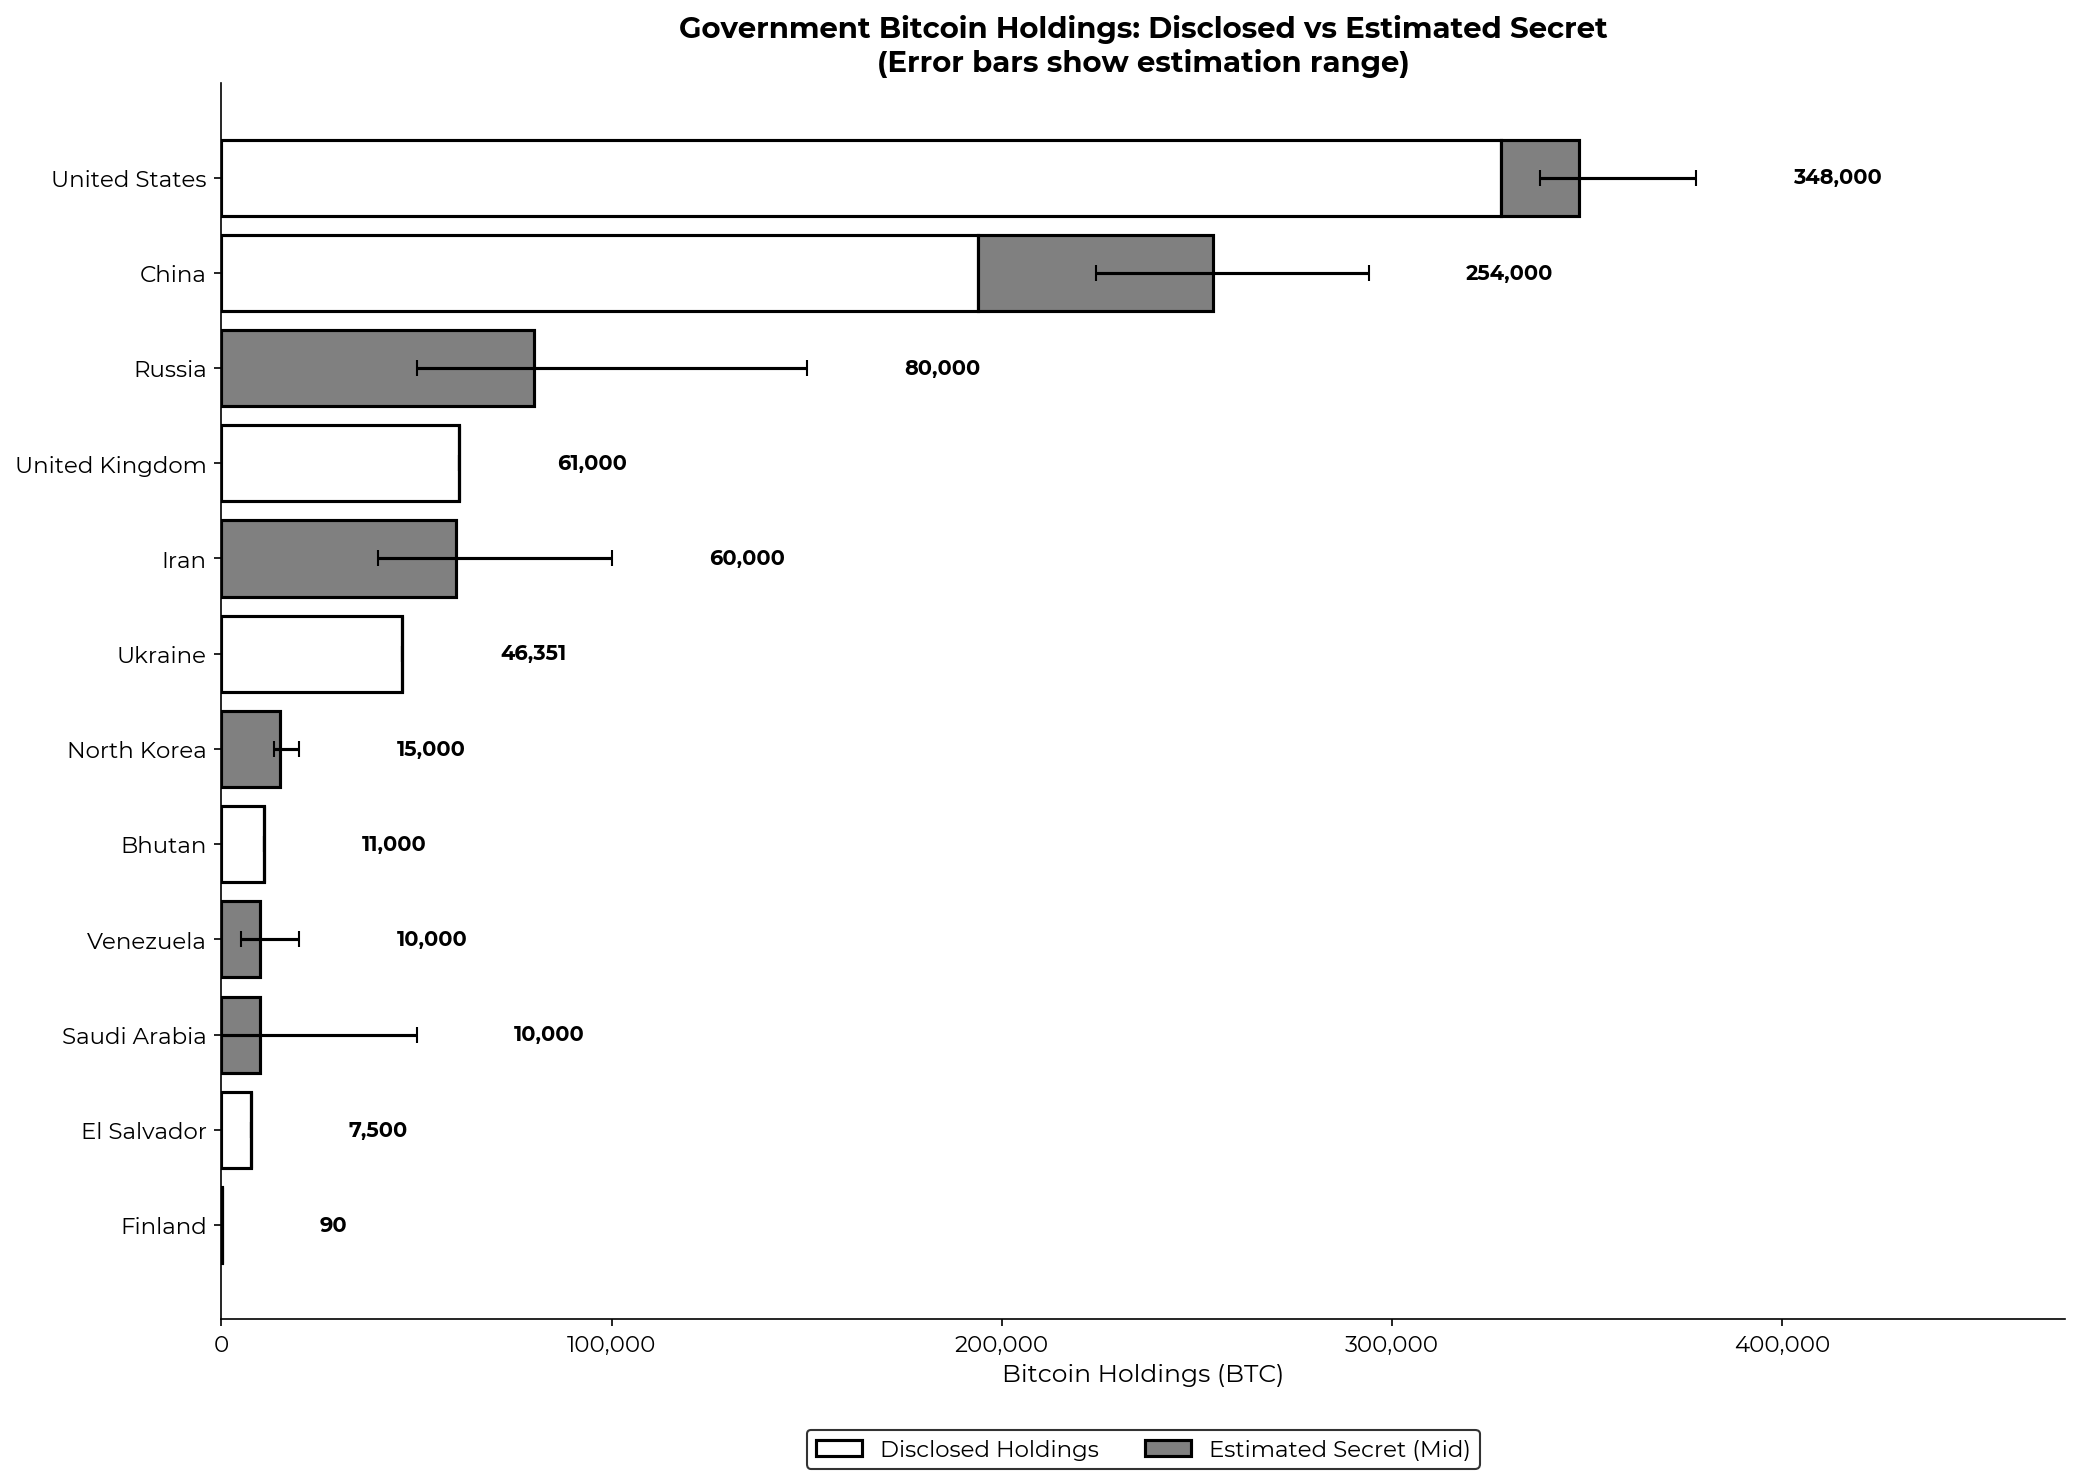
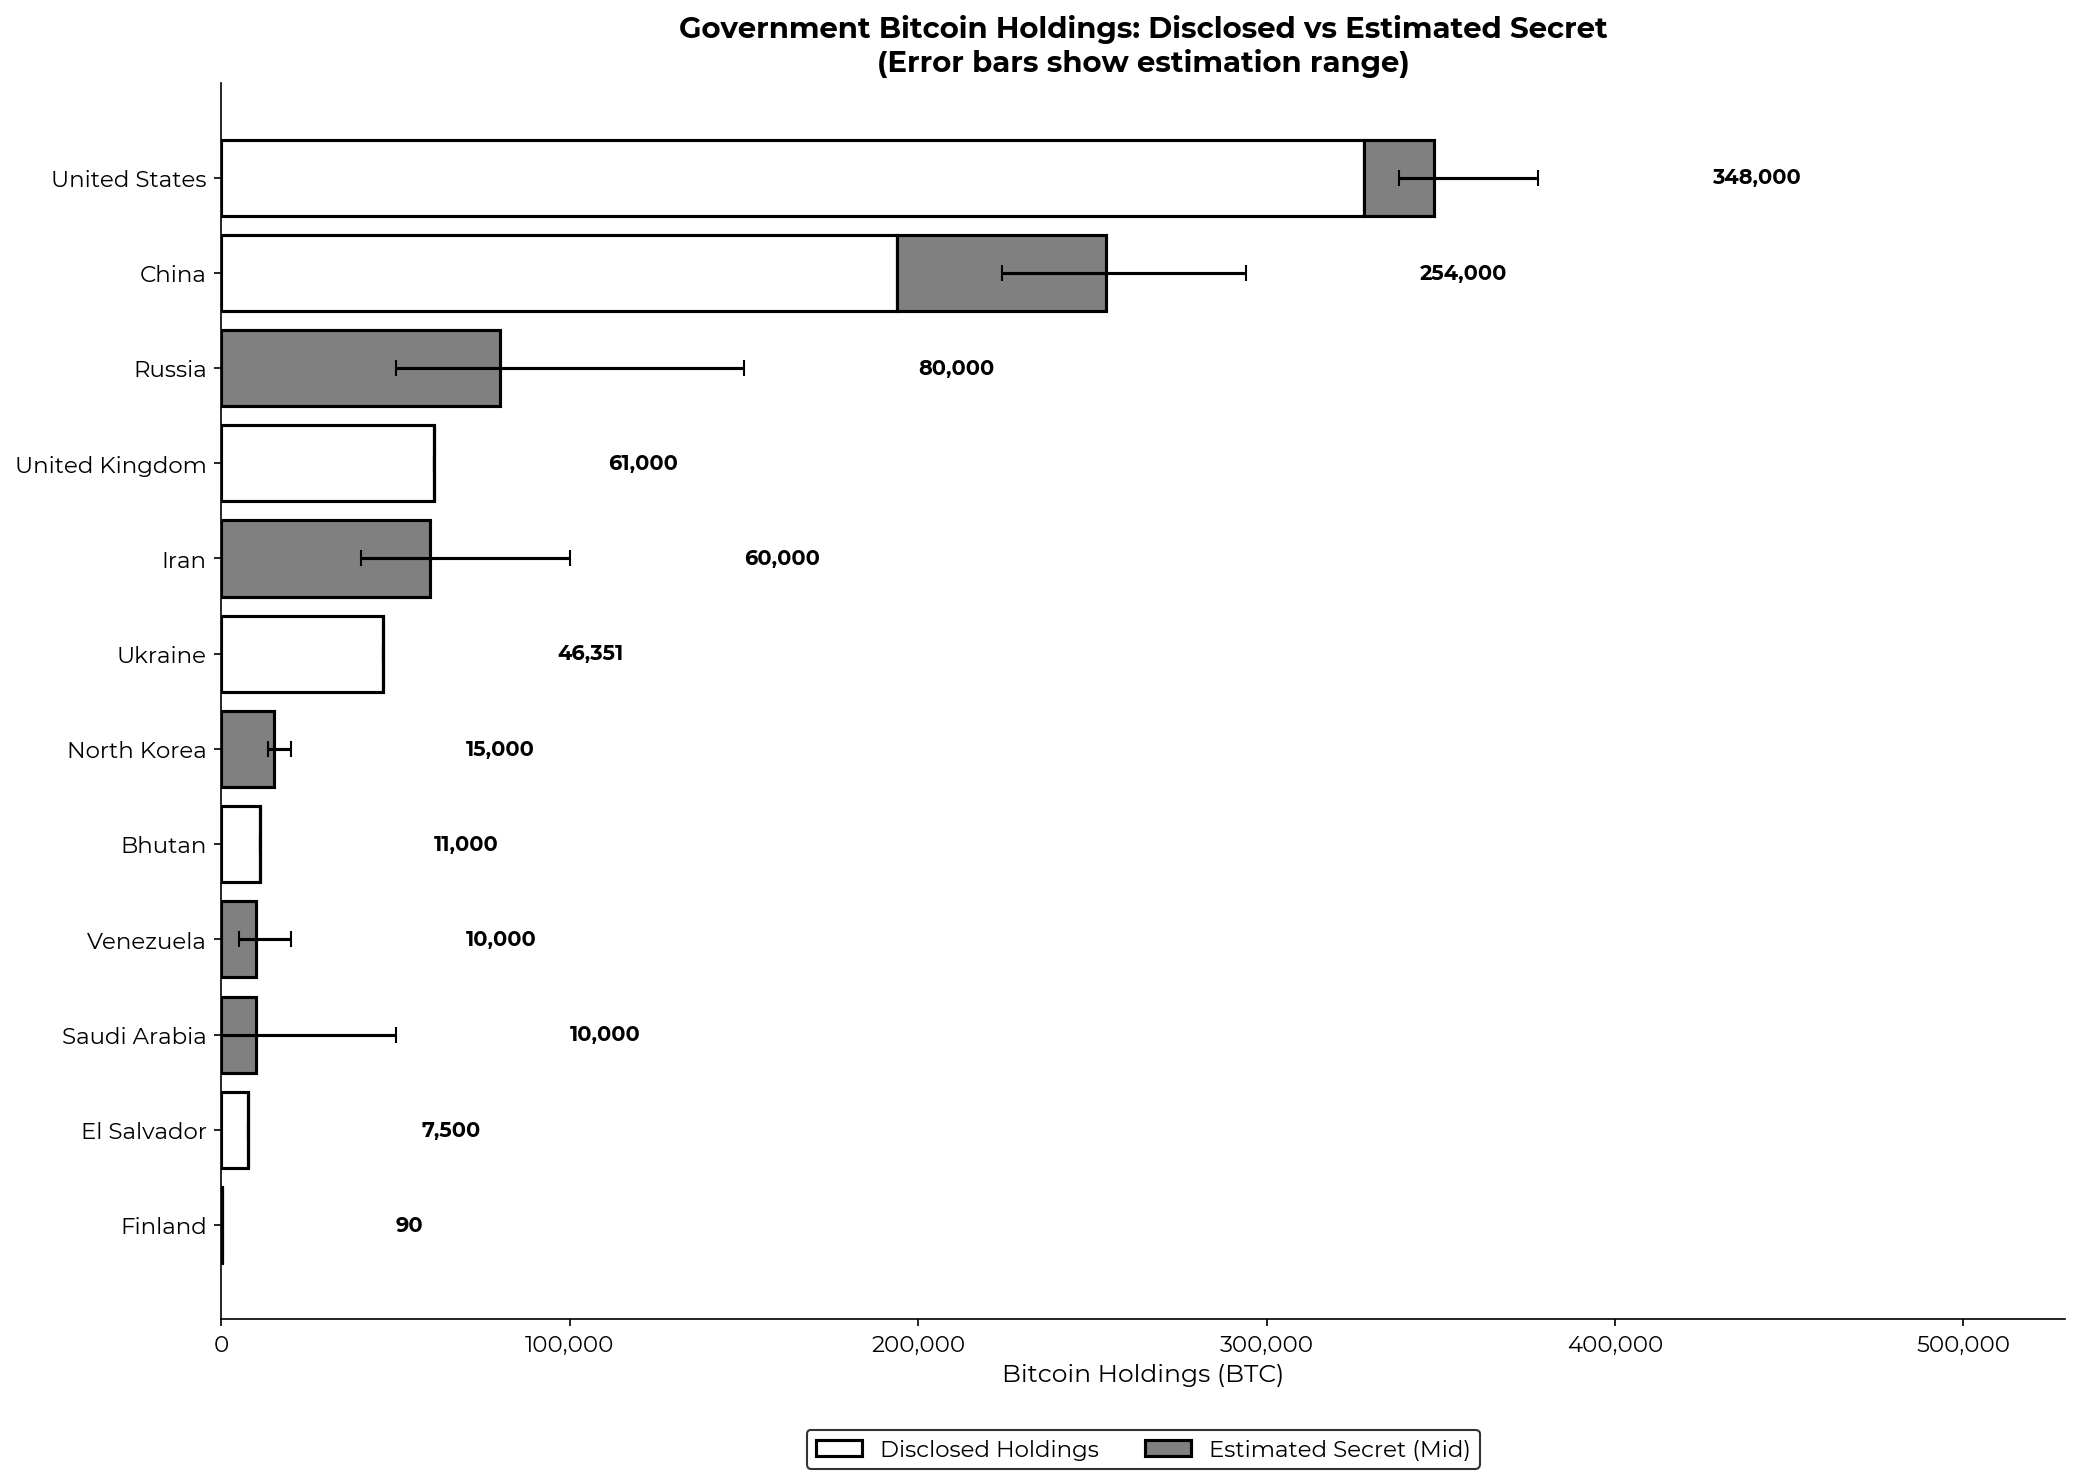
Fix graph label visibility - position labels beyond error bars
- Government holdings: increased offset from +25000 to +50000 BTC
- Extended x-axis limit from 1.25x to 1.4x max value
- Labels should now be clearly visible beyond error bars

https://claude.ai/code/session_01Vh1HuXmVpiFcfU4g9MUR6D

diff --git a/visualizations/generate_visualizations.py b/visualizations/generate_visualizations.py
@@ -237,12 +237,12 @@ def create_government_holdings_chart(government_data):
 
     # Calculate max extent for x-axis limit
     max_total = max([d + h for d, h in zip(disclosed_btc, secret_btc_high)])
-    ax.set_xlim(0, max_total * 1.25)  # Extend x-axis for labels
+    ax.set_xlim(0, max_total * 1.4)  # Extend x-axis for labels
 
     # Add value labels - position well beyond error bars
     for i, (d, s, s_high) in enumerate(zip(disclosed_btc, secret_btc_mid, secret_btc_high)):
         total = d + s
-        max_extent = d + s_high + 25000  # Position label well beyond error bar
+        max_extent = d + s_high + 50000  # Position label well beyond error bar
         if total > 0:
             ax.text(max_extent, i, f'{total:,.0f}', va='center', color='white', fontsize=10, fontweight='bold')
 

diff --git a/visualizations/generate_visualizations_bw.py b/visualizations/generate_visualizations_bw.py
@@ -257,12 +257,12 @@ def create_government_holdings_chart(government_data):
 
     # Calculate max extent for x-axis limit
     max_total = max([d + h for d, h in zip(disclosed_btc, secret_btc_high)])
-    ax.set_xlim(0, max_total * 1.25)  # Extend x-axis for labels
+    ax.set_xlim(0, max_total * 1.4)  # Extend x-axis for labels
 
     # Calculate max extent including error bars for label positioning
     for i, (d, s, s_high) in enumerate(zip(disclosed_btc, secret_btc_mid, secret_btc_high)):
         total = d + s
-        max_extent = d + s_high + 25000  # Position label well beyond error bar
+        max_extent = d + s_high + 50000  # Position label well beyond error bar
         if total > 0:
             ax.text(max_extent, i, f'{total:,.0f}', va='center', fontsize=10, fontweight='bold')
 
